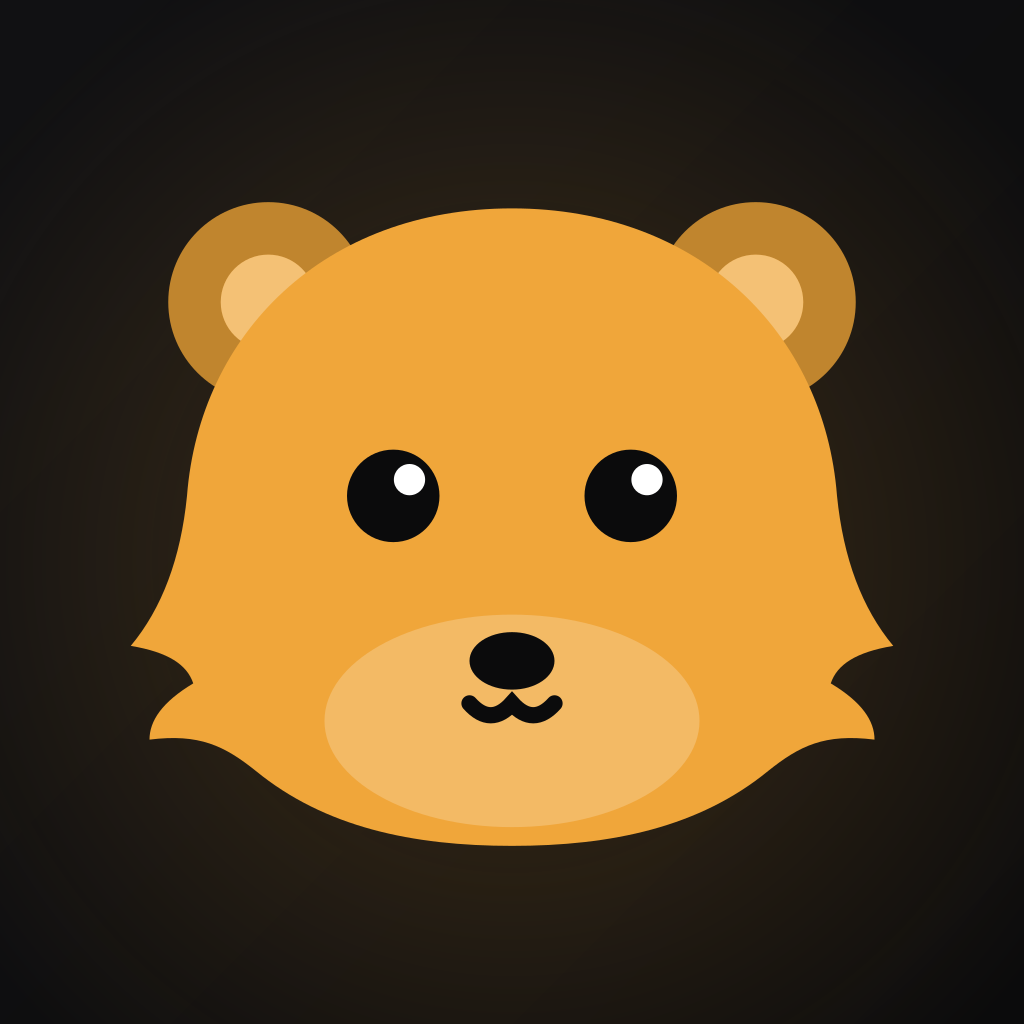
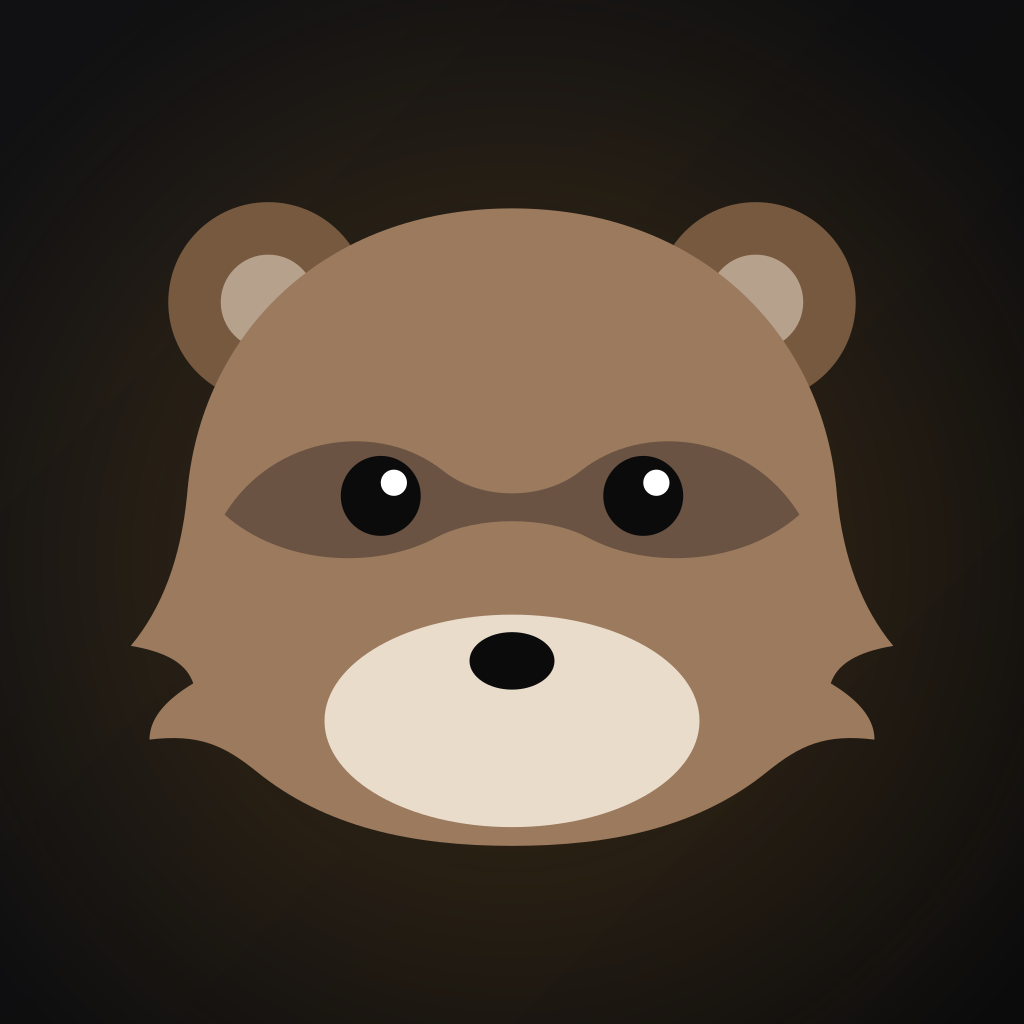
feat: draw the mascot as a driftwood otter with an eye mask

diff --git a/scripts/render.py b/scripts/render.py
@@ -47,13 +47,28 @@ def head(color, inner, ink=INK, nose_opacity=1.0):
     )
 
 
+FUR = "#9c7a5e"
+FUR_EAR = "#76593f"
+FUR_MUZZLE = "#eadccb"
+OTTER_MASK = (
+    "M9 33.5c4-6.5 12.5-7.5 17.5-3.5 3 2.4 8 2.4 11 0 5-4 13.5-3 17.5 3.5"
+    "-4.5 4-12 4.5-17 1.8-3.2-1.7-8.8-1.7-12 0-5 2.7-12.5 2.2-17-1.8z"
+)
+
+
 def mascot():
-    face = (
-        f'<circle cx="22.5" cy="32" r="3.7" fill="{INK}"/><circle cx="23.8" cy="30.7" r="1.25" fill="#fff"/>'
-        f'<circle cx="41.5" cy="32" r="3.7" fill="{INK}"/><circle cx="42.8" cy="30.7" r="1.25" fill="#fff"/>'
-        f'<path d="M28.6 48.6q1.7 1.9 3.4 0q1.7 1.9 3.4 0" stroke="{INK}" stroke-width="1.3" stroke-linecap="round"/>'
+    ears = "".join(
+        f'<circle cx="{x}" cy="16.5" r="8" fill="{FUR_EAR}"/><circle cx="{x}" cy="16.5" r="3.8" fill="{FUR_MUZZLE}" fill-opacity=".55"/>'
+        for x in (12.5, 51.5)
     )
-    return head(ACCENT, face)
+    eyes = "".join(
+        f'<circle cx="{x}" cy="32" r="3.2" fill="{INK}"/><circle cx="{x + 1.05}" cy="30.95" r="1.05" fill="#fff"/>' for x in (21.5, 42.5)
+    )
+    return (
+        f'<g fill="none">{ears}<path d="{HEAD}" fill="{FUR}"/><ellipse cx="32" cy="50" rx="15" ry="8.5" fill="{FUR_MUZZLE}"/>'
+        f'<path d="{OTTER_MASK}" fill="{INK}" fill-opacity=".34"/>{eyes}'
+        f'<ellipse cx="32" cy="45.2" rx="3.4" ry="2.3" fill="{INK}"/></g>'
+    )
 
 
 CAPABILITIES = [
